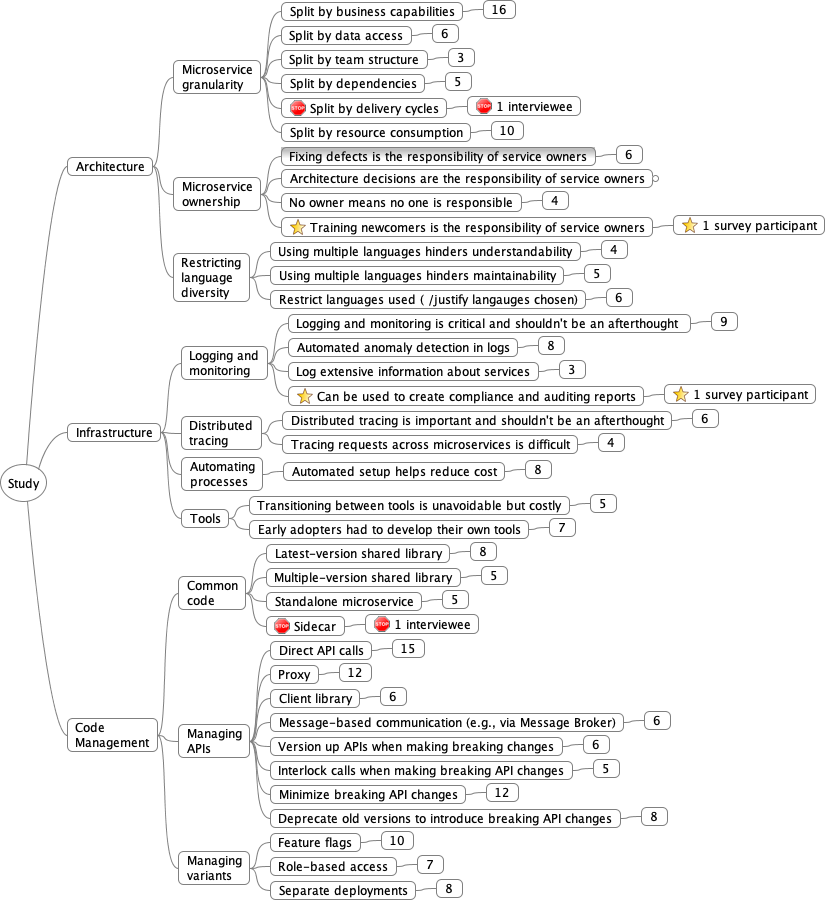
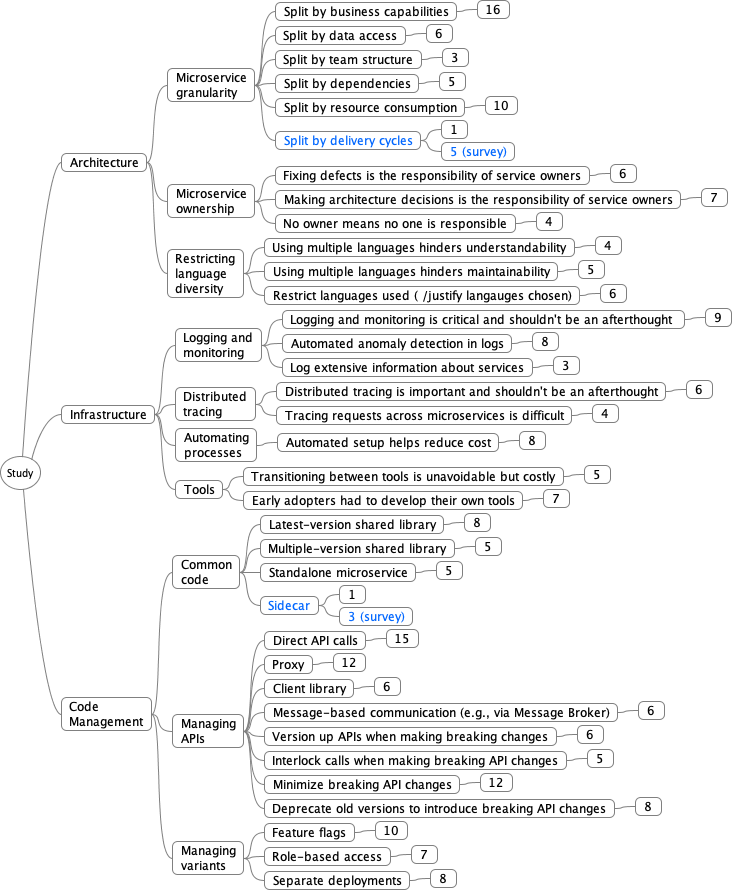
MicroservicesStudy appendix

diff --git a/PaperAppendices/MicroservicesStudy/index.html b/PaperAppendices/MicroservicesStudy/index.html
@@ -1,6 +1,6 @@
 <!DOCTYPE html>
 <html lang="en">
-<title>W3.CSS Template</title>
+<title>Microservices Study</title>
 <meta charset="UTF-8">
 <meta name="viewport" content="width=device-width, initial-scale=1">
 <link rel="stylesheet" href="https://www.w3schools.com/w3css/4/w3.css">
@@ -11,7 +11,7 @@
 body,h1,h2,h3,h4,h5,h6 {font-family: "Lato", sans-serif}
 .w3-bar,h1,button {font-family: "Montserrat", sans-serif}
 .fa-anchor,.fa-coffee {font-size:200px}
-body{font-size: 16pt}
+body{font-size: 14pt}
 
 
 blockquote {
@@ -30,7 +30,7 @@ blockquote p {
 
 	<!-- Header -->
 	<header class="w3-container w3-green w3-center" style="padding:64px 64px">
-	  <h4 class="w3-margin w3-jumbo" style="padding:20px 256px" >Promises and Challenges of Microservices: an Exploratory Study</h4>
+	  <h4 class="w3-margin w3-jumbo" style="padding:20px 256px">Promises and Challenges of Microservices: an Exploratory Study</h4>
 	</header>
 
 
@@ -384,7 +384,7 @@ blockquote p {
 </ul>
 
 <blockquote>
-  <p>There are currently more than 200 free and commercial tools in the There are currently more than 200 free and commercial tools in the Cloud Native Interactive Landscape website for supporting microservice-based engineering. Moreover, new tools are frequently developed and become available.</p>
+  <p>There are currently more than 200 free and commercial tools in the Cloud Native Interactive Landscape website for supporting microservice-based engineering. Moreover, new tools are frequently developed and become available.</p>
 </blockquote>
 
 <p>Q26: In the context of your project, are you actively evaluating new tools or plan to do so in the future? [Single choice]</p>
@@ -465,7 +465,7 @@ blockquote p {
 
 <h1 id="mappingconceptstoquotes">Mapping Concepts to Quotes</h1>
 
-<p>Conceptually similar concepts were grouped together to form categories. Our mapping of concepts (from both interviews and surveys) -> subcategories -> categories is below.</p>
+<p>Concepts that discuss problems, practices, or concerns around same topics were grouped together to form categories. Our mapping of number of quotes -> concepts -> subcategories -> categories is below. We only include concepts that were mentioned by at least three interview or survey participants. In the mindmap, concepts emerged during interviews are marked in black and <font color="#0066ff">concepts emerged from survey are marked in blue</font>.</p>
 
 <p><a href="open-coding-mindmap.png"><img src="open-coding-mindmap.png" alt="" /></a></p>
 

diff --git a/PaperAppendices/MicroservicesStudy/open-coding-mindmap.mm b/PaperAppendices/MicroservicesStudy/open-coding-mindmap.mm
@@ -1,7 +1,8 @@
 <map version="1.0.1">
 <!-- To view this file, download free mind mapping software FreeMind from http://freemind.sourceforge.net -->
-<node CREATED="1543608657945" ID="ID_1825957001" MODIFIED="1576890141120" STYLE="bubble" TEXT="Study">
+<node CREATED="1543608657945" ID="ID_1825957001" MODIFIED="1577664222236" STYLE="bubble" TEXT="Study">
 <edge COLOR="#808080" STYLE="bezier" WIDTH="thin"/>
+<font NAME="SansSerif" SIZE="10"/>
 <node CREATED="1543608678622" ID="ID_1147878348" MODIFIED="1550689702363" POSITION="right" STYLE="bubble">
 <richcontent TYPE="NODE"><html>
   <head>
@@ -31,23 +32,54 @@
 <node CREATED="1543609402795" ID="ID_609775231" MODIFIED="1552030184155" TEXT="Split by business capabilities">
 <node CREATED="1543609404494" ID="ID_1742506137" MODIFIED="1543609405847" TEXT="16"/>
 </node>
-<node CREATED="1543609409775" ID="ID_1412219918" MODIFIED="1552030184156" TEXT="Split by data access">
+<node CREATED="1543609409775" ID="ID_1412219918" MODIFIED="1577661220666" TEXT="Split by data access">
 <node CREATED="1543609412802" ID="ID_463818264" MODIFIED="1543609416026" TEXT="6"/>
 </node>
-<node CREATED="1543609423191" ID="ID_751696263" MODIFIED="1552030184156" TEXT="Split by team structure">
+<node CREATED="1543609423191" ID="ID_751696263" MODIFIED="1577661219373" TEXT="Split by team structure">
 <node CREATED="1543609424379" ID="ID_1629549322" MODIFIED="1543609425100" TEXT="3"/>
 </node>
 <node CREATED="1543609430203" ID="ID_511758295" MODIFIED="1552030184157" TEXT="Split by dependencies">
 <node CREATED="1543609431209" ID="ID_1490665901" MODIFIED="1552032021523" TEXT="5"/>
 </node>
-<node CREATED="1576888863326" ID="ID_1090166128" MODIFIED="1576889222392" TEXT="Split by delivery cycles">
-<icon BUILTIN="stop-sign"/>
-<node CREATED="1576889303265" ID="ID_20954018" MODIFIED="1576889744287" TEXT="1 interviewee">
-<icon BUILTIN="stop-sign"/>
-</node>
-</node>
 <node CREATED="1543609436858" ID="ID_1637493641" MODIFIED="1576888897111" TEXT="Split by resource consumption">
 <node CREATED="1543609442462" ID="ID_543469983" MODIFIED="1552032023524" TEXT="10"/>
+</node>
+<node CREATED="1576888863326" ID="ID_1090166128" MODIFIED="1577665225328">
+<richcontent TYPE="NODE"><html>
+  <head>
+    
+  </head>
+  <body>
+    <p>
+      <font color="#0066ff">Split by delivery cycles</font>
+    </p>
+  </body>
+</html></richcontent>
+<node CREATED="1576889303265" ID="ID_20954018" MODIFIED="1577663395498">
+<richcontent TYPE="NODE"><html>
+  <head>
+    
+  </head>
+  <body>
+    <p>
+      1
+    </p>
+  </body>
+</html></richcontent>
+</node>
+<node CREATED="1577663396800" ID="ID_1162132315" MODIFIED="1577663834850">
+<richcontent TYPE="NODE"><html>
+  <head>
+    
+  </head>
+  <body>
+    <p>
+      <font color="#0066ff">5&#160;(survey)</font>
+    </p>
+  </body>
+</html>
+</richcontent>
+</node>
 </node>
 </node>
 <node CREATED="1543608932250" ID="ID_1926981922" MODIFIED="1576889064343">
@@ -64,20 +96,25 @@
     </p>
   </body>
 </html></richcontent>
-<node CREATED="1543608940011" ID="ID_620452527" MODIFIED="1552030184161" TEXT="Fixing defects is the responsibility of service owners">
+<node CREATED="1543608940011" ID="ID_620452527" MODIFIED="1577662708340" TEXT="Fixing defects is the responsibility of service owners">
 <node CREATED="1543609040365" ID="ID_261880385" MODIFIED="1543609095566" TEXT="6"/>
 </node>
-<node CREATED="1543609029159" FOLDED="true" ID="ID_1441772067" MODIFIED="1576889112061" TEXT="Architecture decisions are the responsibility of service owners">
+<node CREATED="1543609029159" ID="ID_1441772067" MODIFIED="1577662701973">
+<richcontent TYPE="NODE"><html>
+  <head>
+    
+  </head>
+  <body>
+    <p>
+      Making architecture decisions is the responsibility of service owners
+    </p>
+  </body>
+</html>
+</richcontent>
 <node CREATED="1543609046227" ID="ID_1020505340" MODIFIED="1543609093410" TEXT="7"/>
 </node>
 <node CREATED="1543609033874" ID="ID_505513173" MODIFIED="1552030184163" TEXT="No owner means no one is responsible">
 <node CREATED="1543609048528" ID="ID_1091194490" MODIFIED="1543609100988" TEXT="4"/>
-</node>
-<node CREATED="1576889071457" ID="ID_108398428" MODIFIED="1576889096343" TEXT="Training newcomers is the responsibility of service owners">
-<icon BUILTIN="bookmark"/>
-<node CREATED="1576889277615" ID="ID_1436814105" MODIFIED="1576889296534" TEXT="1 survey participant">
-<icon BUILTIN="bookmark"/>
-</node>
 </node>
 </node>
 <node CREATED="1543609351524" ID="ID_184682340" MODIFIED="1576888752681">
@@ -127,17 +164,11 @@
 <node CREATED="1543609233424" ID="ID_1756617401" MODIFIED="1552030184147" TEXT="Logging and monitoring is critical and shouldn&apos;t be an afterthought ">
 <node CREATED="1543609236113" ID="ID_730509152" MODIFIED="1549089363476" TEXT="9"/>
 </node>
-<node CREATED="1543609241529" ID="ID_683497532" MODIFIED="1552030184148" TEXT="Automated anomaly detection in logs">
+<node CREATED="1543609241529" ID="ID_683497532" MODIFIED="1577662822950" TEXT="Automated anomaly detection in logs">
 <node CREATED="1543609243453" ID="ID_1625908999" MODIFIED="1549089384953" TEXT="8"/>
 </node>
 <node CREATED="1543609250147" ID="ID_1879060522" MODIFIED="1552030184149" TEXT="Log extensive information about services">
 <node CREATED="1543609251506" ID="ID_734795988" MODIFIED="1543609252256" TEXT="3"/>
-</node>
-<node CREATED="1576889144367" ID="ID_133390243" MODIFIED="1576889188774" TEXT="Can be used to create compliance and auditing reports">
-<icon BUILTIN="bookmark"/>
-<node CREATED="1576889250211" ID="ID_1540317159" MODIFIED="1576889269056" TEXT="1 survey participant">
-<icon BUILTIN="bookmark"/>
-</node>
 </node>
 </node>
 <node CREATED="1543609264500" ID="ID_1486179780" MODIFIED="1552030183800">
@@ -213,7 +244,7 @@
   </body>
 </html></richcontent>
 <edge COLOR="#808080" STYLE="bezier" WIDTH="thin"/>
-<node CREATED="1543609501466" ID="ID_334101475" MODIFIED="1576888947106">
+<node CREATED="1543609501466" ID="ID_334101475" MODIFIED="1577662882074">
 <richcontent TYPE="NODE"><html>
   <head>
     
@@ -236,10 +267,43 @@
 <node CREATED="1543609527913" ID="ID_1486504017" MODIFIED="1552030184164" TEXT="Standalone microservice">
 <node CREATED="1543609529889" ID="ID_443243658" MODIFIED="1543609531716" TEXT="5"/>
 </node>
-<node CREATED="1576888984140" ID="ID_1260583252" MODIFIED="1576889227759" TEXT="Sidecar">
-<icon BUILTIN="stop-sign"/>
-<node CREATED="1576889746181" ID="ID_1543066145" MODIFIED="1576889812438" TEXT="1 interviewee">
-<icon BUILTIN="stop-sign"/>
+<node CREATED="1576888984140" ID="ID_1260583252" MODIFIED="1577663233870">
+<richcontent TYPE="NODE"><html>
+  <head>
+    
+  </head>
+  <body>
+    <p>
+      <font color="#0066ff">Sidecar</font>
+    </p>
+  </body>
+</html>
+</richcontent>
+<node CREATED="1576889746181" ID="ID_1543066145" MODIFIED="1577663336636">
+<richcontent TYPE="NODE"><html>
+  <head>
+    
+  </head>
+  <body>
+    <p>
+      <font color="#000000">1</font>
+    </p>
+  </body>
+</html>
+</richcontent>
+</node>
+<node CREATED="1577663078420" ID="ID_1694051990" MODIFIED="1577663823707">
+<richcontent TYPE="NODE"><html>
+  <head>
+    
+  </head>
+  <body>
+    <p>
+      <font color="#0066ff">3&#160;(survey)</font>
+    </p>
+  </body>
+</html>
+</richcontent>
 </node>
 </node>
 </node>
